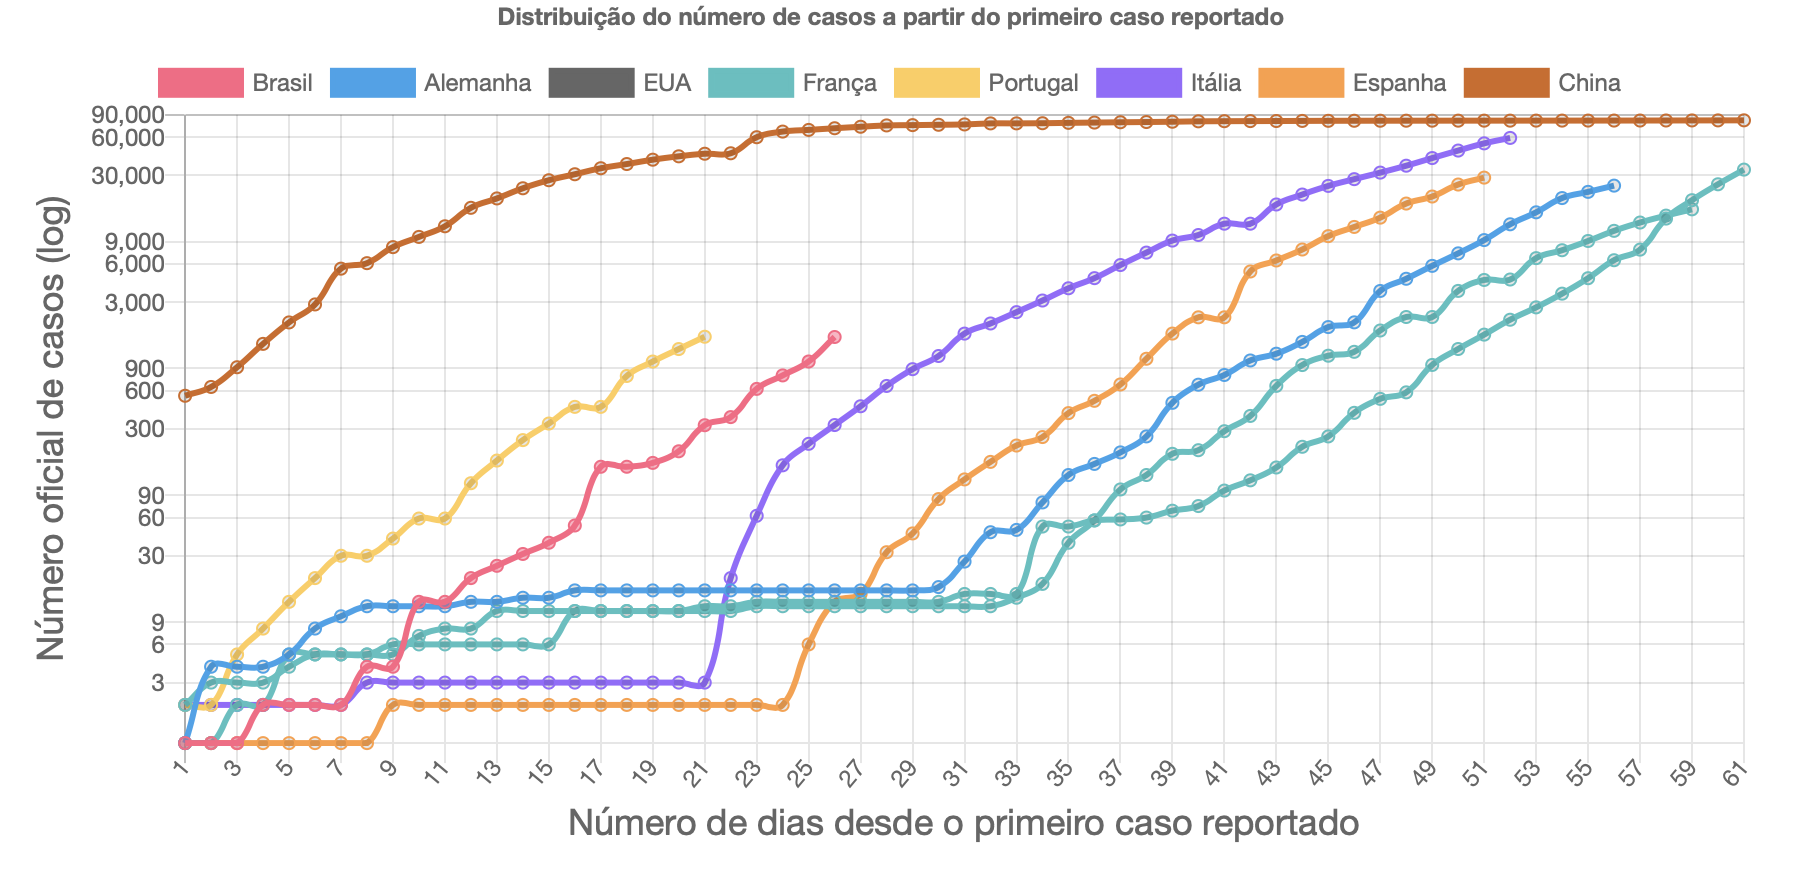
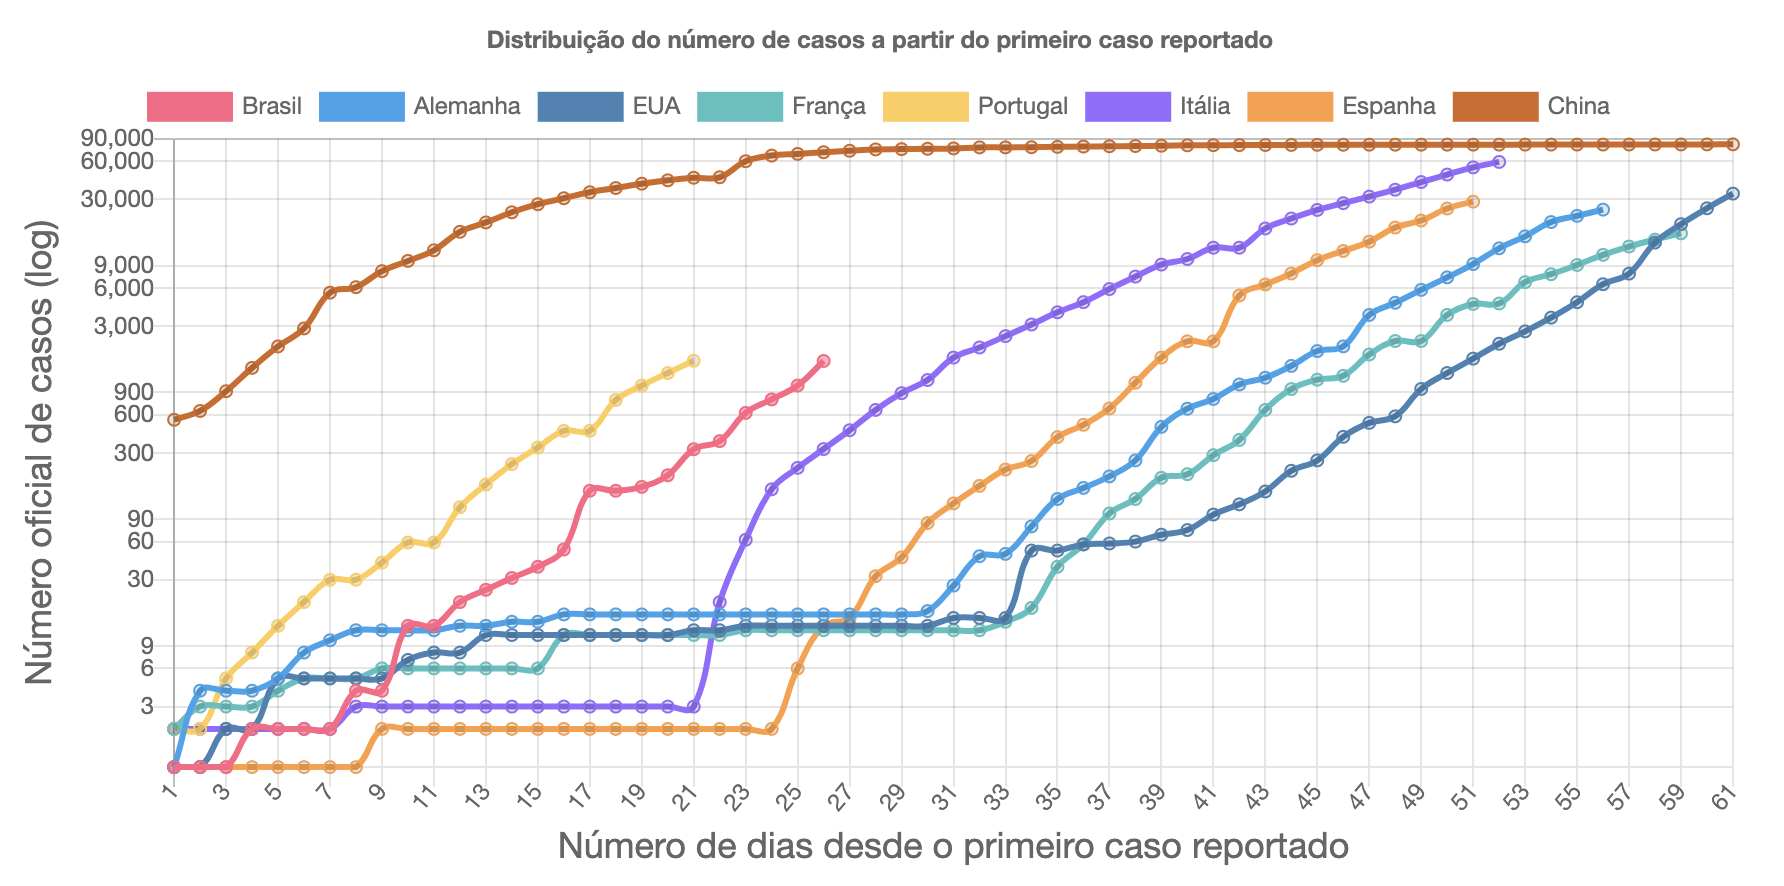
Fixed USA color

Changed region(s): [[0.0, 0.0, 0.9865, 0.9908]]

diff --git a/utils/js/chart.js/utils.js b/utils/js/chart.js/utils.js
@@ -8,8 +8,8 @@ window.chartColors = {
 	blue: 'rgb(54, 162, 235)',
 	purple: 'rgb(153, 102, 255)',
 	grey: 'rgb(201, 203, 207)',
-	steel_blue: 'rgb(70, 130,1 80)',
-	chocolate: 'rgb(210, 105, 30)'
+	steel_blue: 'rgb(70, 130, 180)',
+	chocolate: 'rgb(210, 105, 30)',
 };
 
 (function (global) {
